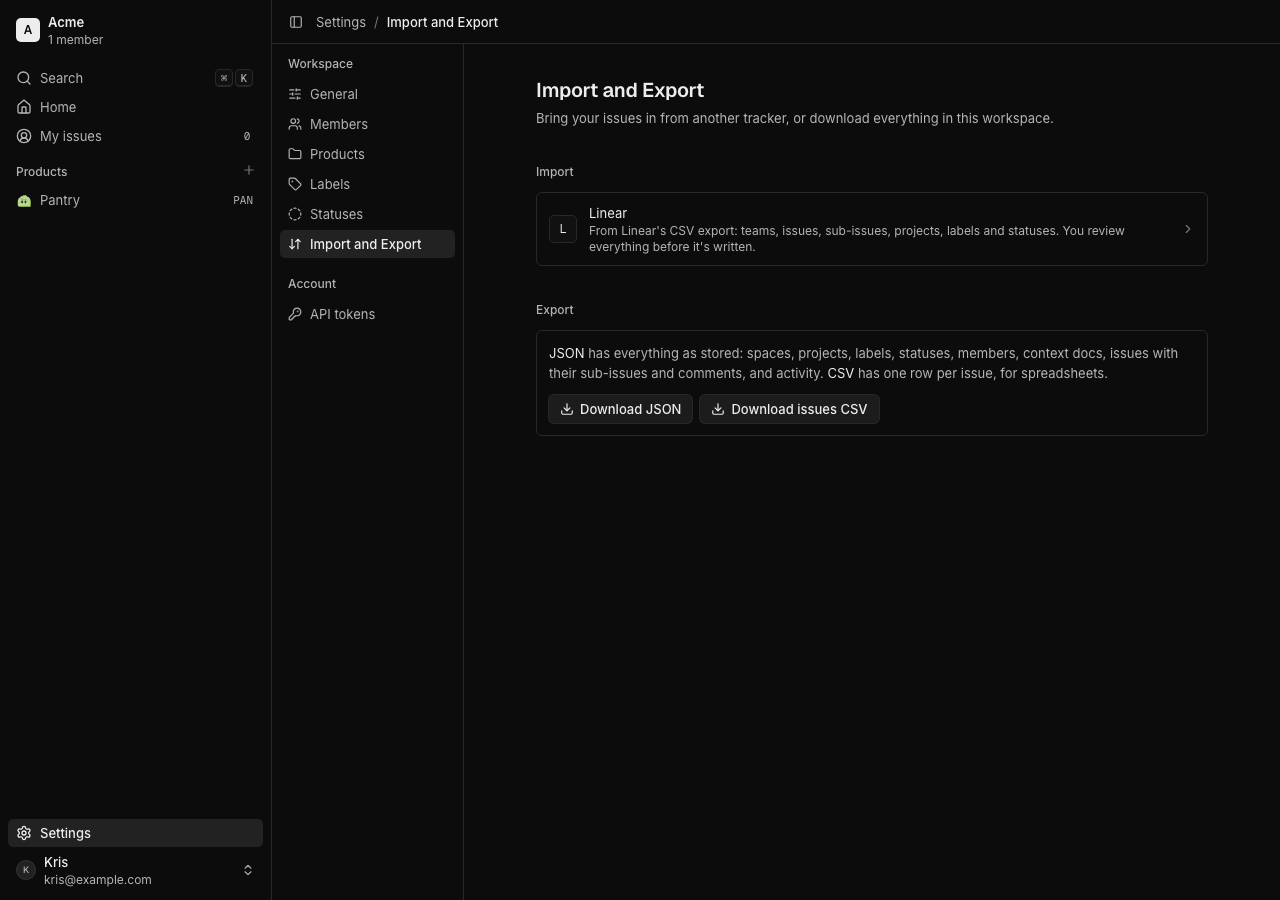
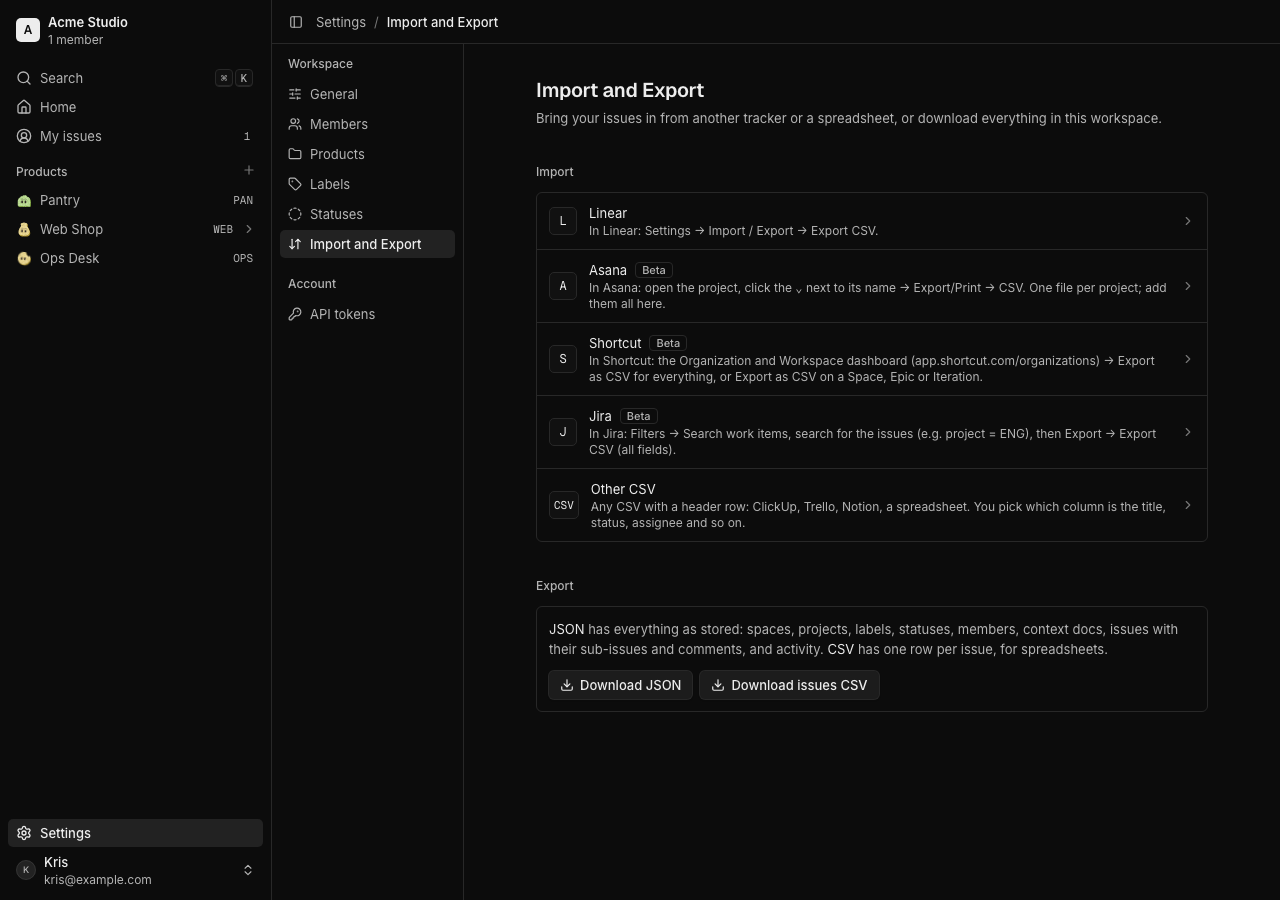
Docs: import from Asana, Shortcut, Jira and other CSV
Per-source export steps and mapping tables on /docs/import-export, Jira's
export limit and how to export the rest, a changelog line, and screenshots
(synthetic data, light and dark).

diff --git a/apps/site/lib/docs/nav.ts b/apps/site/lib/docs/nav.ts
@@ -60,7 +60,7 @@ export const DOCS_NAV: DocSection[] = [
       {
         slug: "import-export",
         title: "Import and export",
-        description: "Move your issues over from Linear, or download your workspace.",
+        description: "Move your issues over from Linear, Asana, Shortcut, Jira or any CSV, or download your workspace.",
       },
       {
         slug: "keyboard-shortcuts",

diff --git a/apps/site/content/docs/import-export.md b/apps/site/content/docs/import-export.md
@@ -1,58 +1,169 @@
-Bring your issues in from Linear, or download everything in your workspace. Both live in **Settings → Import
-and Export**.
+Bring your issues in from Linear, Asana, Shortcut, Jira or any other CSV, or download everything in your
+workspace. Both live in **Settings → Import and Export**.
 
-## Import from Linear
+## Import
 
-Only the workspace owner can import, because an import creates spaces, projects and labels for everyone.
+Only the workspace owner can import, because an import creates spaces, projects and labels for everyone. Every
+source works the same way:
 
-1. In Linear, open **Settings → Import / Export** and export your issues as CSV.
-2. In Pantry, open **Settings → Import and Export**, choose **Linear** and pick the file. It's read in your
-   browser; nothing is written yet.
+1. Export your issues as CSV from the other tool (the steps for each are below).
+2. In Pantry, open **Settings → Import and Export**, choose the source and pick the file (or files). It's read in
+   your browser; nothing is written yet. If the file is another tool's export, Pantry says so and offers to switch.
 3. Review what will happen, change anything you want, then press **Import**.
+
+Asana, Shortcut and Jira are marked **Beta**: they're built from each tool's documentation and published sample
+exports, not yet from many real files. Check the review closely, and if something looks off, open an issue with
+the column headers of your file (not its rows).
 
 ### What the review shows
 
 - **Counts**: how many spaces, projects, labels, issues and sub-issues the import makes, and how many issues it
   skips (archived, or already imported).
-- **Teams**: each Linear team goes into a space. By default that's a new space named after the team, with the
-  team's prefix as its key (`ENG` for `ENG-12`). You can rename it, change the key, or pick an existing space
-  instead.
-- **Statuses**: each Linear status is mapped to one of your six statuses, by name first and then by meaning
-  (Duplicate → Canceled). Change any of them.
-- **Priorities**: Linear's five priorities are the same as Pantry's, so they map one to one.
-- **People**: creators and assignees are matched to members by their sign-in email. Someone who isn't a member
-  leaves the issue unassigned (and created by you), and their email goes in the note at the end of the
-  description. Invite them before importing to keep them.
-- **Projects and labels**: projects are created inside the team's space and labels in the workspace. One with the
-  same name (ignoring case) is reused instead.
-- **Linear-only fields**: Pantry has no field for project milestones, initiatives, cycles, estimates or issue
-  relations (related to, blocked by, duplicate of). The ones you leave checked go into a short note at the end of
-  each description, with the Linear key and the date it was created. Update times, start and triage times, SLA
-  status and time in status aren't imported.
+- **Check before importing**: things worth a look that don't stop the import, like dates Pantry couldn't read
+  (they're left out) or an issue that's in two of your files (it comes in once).
+- **Spaces**: whatever the source groups issues by (a Linear team, an Asana project, a Shortcut team, a Jira
+  project) goes into a space. By default that's a new space named after it, with the source's key when it has one
+  (`ENG` for `ENG-12`) and a short free key otherwise. You can rename it, change the key, or pick an existing space.
+- **Statuses** and **Priorities**: each of the source's statuses and priorities is mapped to one of Pantry's, by
+  name first and then by meaning (Duplicate → Canceled, Highest → Urgent). Change any of them.
+- **People**: creators and assignees are matched to members by sign-in email, or by display name when the export
+  has no emails (Jira). Someone who isn't a member leaves the issue unassigned (and created by you), and their
+  name goes in the note at the end of the description. Invite them before importing to keep them.
+- **Projects and labels**: projects are created inside the space and labels in the workspace. One with the same
+  name (ignoring case) is reused instead. You can also add each issue's type (Bug, Story, feature…) as a label.
+- **Fields Pantry has no place for** go into a short note at the end of each description, with the source's key
+  and the date the issue was created. Uncheck the ones you don't want. Columns that aren't imported at all are
+  listed.
 - **Archived issues** are left out unless you check **Include archived issues**.
 
 ### How issues come in
 
-- **Keys**: when the space's key is the team's prefix, issues keep their numbers, so `ENG-28` stays `ENG-28`. A
-  number that's already used in that space gets the next free one. In a space with another key, issues are
-  numbered from that space's counter, and the Linear key is in the note.
+- **Keys**: when the space's key is the source's prefix (Linear, Jira), issues keep their numbers, so `ENG-28`
+  stays `ENG-28`. A number that's already used in that space gets the next free one. Otherwise issues are
+  numbered from the space's counter, and the source's key is in the note.
 - **Sub-issues** stay attached to their parent. Pantry's sub-issues go one level deep, so a sub-issue of a
-  sub-issue hangs off the top-level issue. A sub-issue whose parent is left out (archived, or not in the file)
-  comes in as a normal issue, with a note saying whose sub-issue it was.
+  sub-issue hangs off the top-level issue. A sub-issue whose parent is left out (archived, not in the file, or
+  impossible to tell apart) comes in as a normal issue, with a note saying whose sub-issue it was.
 - **Dates**: due dates and the time an issue was completed or canceled are kept. The created date goes in the
   note: Pantry's own created time is the time of the import.
-- **Timeline**: each imported issue starts with one entry, "imported the issue from Linear", tagged
-  "via import", under the name of the person who ran it.
+- **Timeline**: each imported issue starts with one entry, "imported the issue from Jira" (or Linear, Asana…),
+  tagged "via import", under the name of the person who ran it. Imported comments are also tagged "via import".
 
 ### Importing again
 
-Every imported issue remembers its Linear id. Importing the same file again skips the issues already in Pantry
-and reuses the spaces, projects and labels from last time, so nothing is duplicated. An issue you deleted in
-Pantry comes back.
+Every imported issue remembers its id in the source. Importing the same file again skips the issues already in
+Pantry and reuses the spaces, projects and labels from last time, so nothing is duplicated. An issue you deleted
+in Pantry comes back. You can also import a newer export of the same tool: only what's new comes in.
 
 Issues are written in batches. If an import stops halfway (a lost connection, a closed tab), the issues written
 so far stay, and the batch that failed writes nothing. Import the same file again to finish: it picks up where it
 stopped.
+
+## Linear
+
+In Linear, open **Settings → Import / Export** and export your issues as CSV: one file with every team.
+
+| Linear | Pantry |
+| --- | --- |
+| Team | Space (keeps the issue numbers when the key is the team's prefix) |
+| Status, Priority | Status, priority (same five priorities) |
+| Project | Project in the team's space |
+| Labels | Labels |
+| Parent issue | Sub-issue |
+| Creator, Assignee (emails) | Creator, assignee when they're members |
+| Due date, Completed, Canceled | Due date, completion time |
+| Milestone, initiatives, cycle, estimate, related / blocked by / duplicate of | The note |
+| Updated, Started, Triaged, SLA status, time in status | Not imported |
+
+## Asana (Beta)
+
+Asana exports one project at a time: open the project, click the arrow next to its name, then **Export/Print →
+CSV**. Export every project you want and add all the files to one import (**Add file** in the review). Asana's CSV
+has no comments, attachments or creator.
+
+| Asana | Pantry |
+| --- | --- |
+| Project (the file) | A space each, or (the default with several files) projects in one space; switch it in the review |
+| Completed At | Done (the "Completed" row of the status mapping) |
+| Section/Column of open tasks | Status: each section is a row of the status mapping |
+| Name, Notes | Title, description |
+| Assignee, Assignee Email | Assignee when they're a member |
+| Tags | Labels |
+| Due Date | Due date |
+| Parent task | Sub-issue (see below) |
+| A "Priority" custom field | Priority |
+| Start Date, Blocked By / Blocking, other projects of the task, other custom fields | The note |
+| Last Modified | Not imported |
+
+Asana's export names a subtask's parent by its **name**, not its id. Pantry looks for that name in the subtask's
+own project first, then in all your files. When two tasks have that name, it can't tell which is the parent, so the
+subtask comes in as a normal issue with the parent's name in the note (the review tells you how many).
+
+## Shortcut (Beta)
+
+Export the whole workspace with **Export as CSV** on the Organization and Workspace dashboard
+(`app.shortcut.com/organizations`), or one Space, Epic or Iteration with **Export as CSV** on its stories. Shortcut's
+CSV has no comments and no links between stories.
+
+| Shortcut | Pantry |
+| --- | --- |
+| Team | Space (or one space for everything; switch it in the review) |
+| State (with its workflow when there are several) | Status |
+| Type (feature, bug, chore) | Label |
+| Epic | Project |
+| Requester, first owner | Creator, assignee when they're members |
+| Other owners | The note |
+| Labels | Labels |
+| Tasks | A checklist at the end of the description |
+| Priority, due date | Priority, due date |
+| Iteration, objective (milestone), estimate, blocked / blocker, external tickets, severity, custom fields | The note |
+| Archived stories | Left out unless you include them |
+
+## Jira (Beta)
+
+In Jira, open **Filters → Search work items** (or a project's list), search for the issues you want (for example
+`project = ENG`), then **Export → Export CSV (all fields)**. Use "all fields" so comments, sub-tasks and links come
+along.
+
+Jira stops each CSV export at a limit: 1,000 issues on the older export, 10,000 on the current one. If your search
+has more, export it in batches with JQL, for example `project = ENG AND created < 2026-01-01` and then
+`project = ENG AND created >= 2026-01-01`, and add every file to the same import. An issue that's in two files comes
+in once, and the review warns when a file stops at exactly 1,000 or 10,000 rows.
+
+| Jira | Pantry |
+| --- | --- |
+| Project | Space (keeps the issue numbers when the key is the project key) |
+| Status + Resolution | Status ("Done · Won't Do" is its own row, mapped to Canceled); Jira's status category helps the guess |
+| Priority: Highest, High, Medium, Low, Lowest | Urgent, High, Medium, Low, Low |
+| Issue Type | Label (Story, Bug, Task…) |
+| Epic | Project, and its issues go into it; or, with **Epics become projects** off, an issue with its issues as sub-issues |
+| Sub-task (Parent) | Sub-issue |
+| Summary, Description | Title, description (Jira's wiki markup becomes Markdown) |
+| Reporter, Assignee | Creator, assignee when they match a member by name |
+| Labels | Labels |
+| Due date, Resolved | Due date, completion time |
+| Comment | Comments, under your name, each starting with who wrote it in Jira and when |
+| Sprint, story points, components and versions, issue links, attachment links, environment | The note |
+| Updated, votes, watchers, time tracking, rank, other custom fields | Not imported |
+
+Jira writes dates in your site's format and language (`03/Nov/26 10:15 AM` by default). Pantry reads the common
+formats in English, German, French, Spanish, Portuguese, Italian and Dutch; a date it can't read is left out and
+listed in the review. Jira's export names people by display name, so they're matched to members by name.
+
+## Other CSV
+
+For ClickUp, Trello, Notion, a spreadsheet or anything else with a header row. Pick the file, then say which column
+is the title (the only one you need), description, status, priority, labels, assignee, due date, created date,
+parent, ID, space and project. Pantry guesses from the column names; change any of them. Columns nobody picks go
+into the note, one line each.
+
+- **ID**: map one if the file has it. Re-imports match rows on it, and ids like `ABC-12` keep their numbers in a
+  space with the key `ABC`. Without an ID column, rows are matched by title, so a row whose title changed comes in
+  again.
+- **Space**: rows go into a space per value of this column, or into one space named after the file.
+- **Parent**: the parent's ID, or its title when it's unique in the file.
+- **Labels and assignees** can be lists (`a, b`, `a; b`, `[a, b]`); the first assignee is used, the others go in
+  the note.
 
 ## Export
 

diff --git a/CHANGELOG.md b/CHANGELOG.md
@@ -8,6 +8,16 @@ The format is based on [Keep a Changelog](https://keepachangelog.com/en/1.1.0/),
 
 ## [Unreleased]
 
+### Added
+
+- **Import from Asana, Shortcut, Jira or any CSV.** Settings → Import and Export now lists five sources, each with
+  where to find its export. Asana (one CSV per project, several at once; sections become statuses, subtasks
+  sub-issues), Shortcut (teams become spaces, epics projects, tasks a checklist) and Jira (keeps issue numbers,
+  epics become projects, sub-tasks sub-issues, comments come along, several files for exports past Jira's limit)
+  are marked Beta. **Other CSV** takes ClickUp, Trello, Notion or spreadsheet exports: you pick which column is
+  the title, status, assignee and so on. Every source gets the same review, editable status and priority mapping,
+  and safe re-imports. A file dropped on the wrong source is recognised, with a switch to the right one.
+
 ## [0.1.31] - 2026-11-02
 
 ### Added
